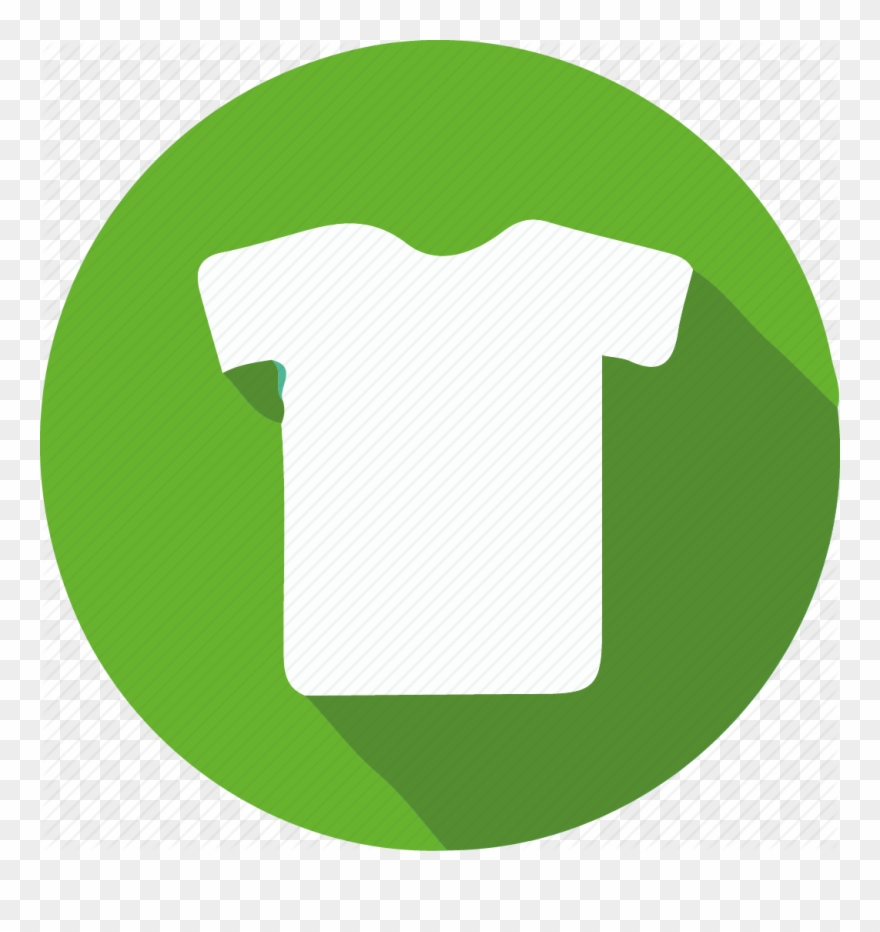
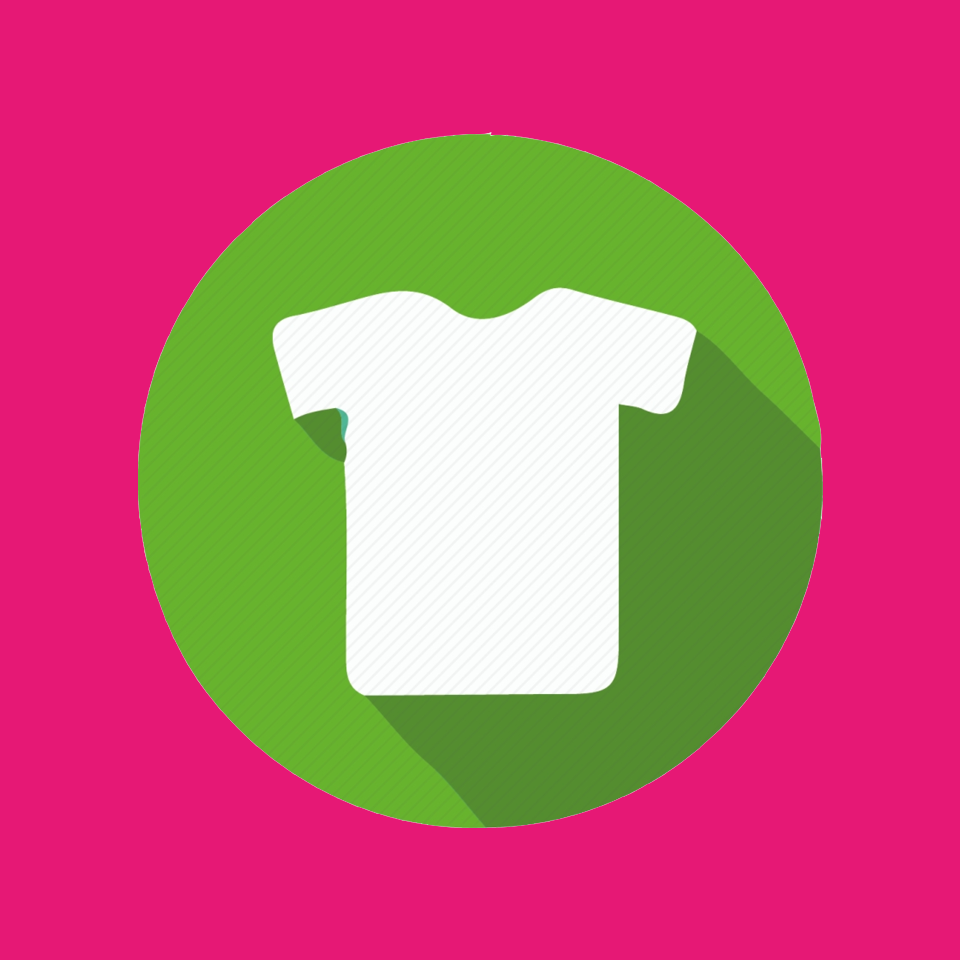
cambio imagen

diff --git a/TPA/src/main/java/server/controllers/SugerenciasController.java b/TPA/src/main/java/server/controllers/SugerenciasController.java
@@ -3,7 +3,6 @@ package server.controllers;
 import domain.eventos.Evento;
 import domain.eventos.RepositorioEventos;
 import domain.usuario.RepositorioUsuarios;
-import persistency.services.EventosService;
 import persistency.services.SugerenciasService;
 import spark.Request;
 import spark.Response;
